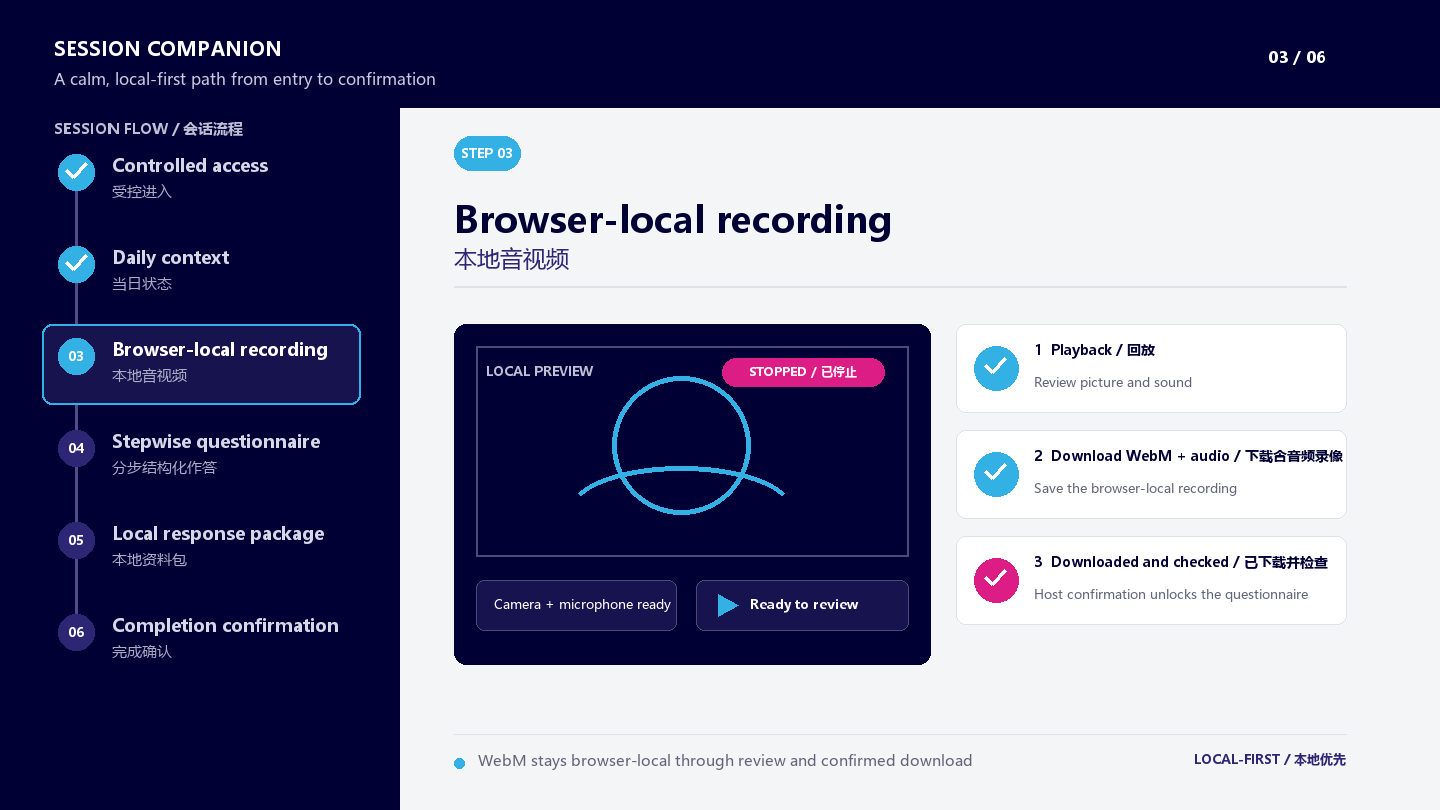
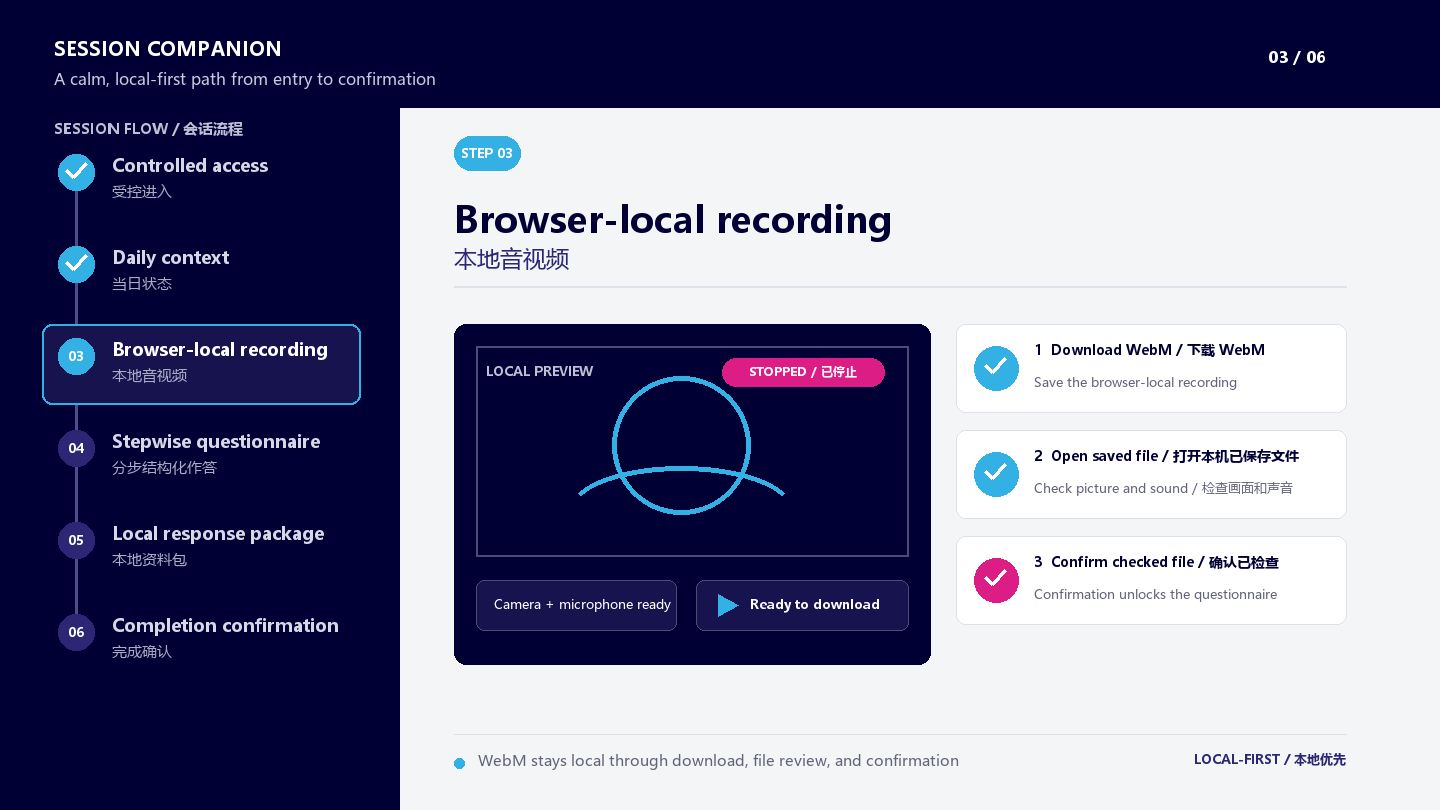
docs: align recorder verification handoff

diff --git a/tests/test_operational_readme.py b/tests/test_operational_readme.py
@@ -48,6 +48,12 @@ REFERENCE_WINDOWS_FONTS = (
     Path("C:/Windows/Fonts/msyh.ttc"),
     Path("C:/Windows/Fonts/msyhbd.ttc"),
 )
+RECORDING_HANDOFF_COPY = (
+    "下载 WebM",
+    "打开本机已保存文件",
+    "检查画面和声音",
+    "确认",
+)
 QUESTIONNAIRE_COPY = (
     "CURRENT PROMPT",
     "过去 24 小时，是否出现过不想死但想故意伤害自己的想法？",
@@ -214,6 +220,19 @@ def _assert_rendered_copy_in_order(
         previous_index = matching_index
 
 
+def _assert_copy_in_order(value: str, expected: tuple[str, ...]) -> None:
+    normalized_value = _normalize_whitespace(value)
+    previous_index = -1
+    for expected_value in expected:
+        normalized_expected = _normalize_whitespace(expected_value)
+        matching_index = normalized_value.find(normalized_expected, previous_index + 1)
+        assert matching_index > previous_index, (
+            f"expected copy {normalized_expected!r} after index {previous_index}; "
+            f"value={normalized_value!r}"
+        )
+        previous_index = matching_index
+
+
 def _showcase_asset_root() -> Path | None:
     candidates = (
         ROOT.parent / "physical-stimulation-session-recorder-showcase" / "assets",
@@ -373,6 +392,32 @@ def test_generator_renders_surface_copy_in_order(
     renderer(recording_draw)
 
     _assert_rendered_copy_in_order(recording_draw.rendered, expected_copy)
+
+
+def test_recording_surface_downloads_before_local_file_review_and_confirmation() -> None:
+    generator = _load_generator()
+    renderer = getattr(generator, "_draw_recording", None)
+    assert callable(renderer), "expected callable renderer '_draw_recording'"
+    recording_draw = _RecordingDraw()
+
+    renderer(recording_draw)
+
+    _assert_rendered_copy_in_order(
+        recording_draw.rendered,
+        RECORDING_HANDOFF_COPY,
+    )
+
+
+def test_chrome_guide_downloads_before_local_file_review_and_confirmation() -> None:
+    chrome_guide = _readme().split(
+        "<summary>Chrome 操作与故障排查 / Chrome guide and troubleshooting</summary>",
+        1,
+    )[1].split("</details>", 1)[0]
+    recording_step = next(
+        line for line in chrome_guide.splitlines() if line.startswith("2. ")
+    )
+
+    _assert_copy_in_order(recording_step, RECORDING_HANDOFF_COPY)
 
 
 def test_generator_draws_structured_response_closure(

diff --git a/tools/generate_operational_readme_assets.py b/tools/generate_operational_readme_assets.py
@@ -279,7 +279,7 @@ def _draw_recording(draw: ImageDraw.ImageDraw) -> None:
     draw.text((494, 595), "Camera + microphone ready", font=font(13), fill=COLORS["paper"])
     rounded_box(draw, (696, 580, 908, 630), fill="#17134F", outline="#4D4A78", radius=8)
     draw.polygon(((718, 594), (718, 616), (738, 605)), fill=COLORS["cyan"])
-    draw.text((750, 595), "Ready to review", font=font(13, True), fill=COLORS["paper"])
+    draw.text((750, 595), "Ready to download", font=font(13, True), fill=COLORS["paper"])
 
     _handoff_row(
         draw,
@@ -287,8 +287,8 @@ def _draw_recording(draw: ImageDraw.ImageDraw) -> None:
         324,
         390,
         "1",
-        "Playback / 回放",
-        "Review picture and sound",
+        "Download WebM / 下载 WebM",
+        "Save the browser-local recording",
         COLORS["cyan"],
     )
     _handoff_row(
@@ -297,8 +297,8 @@ def _draw_recording(draw: ImageDraw.ImageDraw) -> None:
         430,
         390,
         "2",
-        "Download WebM + audio / 下载含音频录像",
-        "Save the browser-local recording",
+        "Open saved file / 打开本机已保存文件",
+        "Check picture and sound / 检查画面和声音",
         COLORS["cyan"],
     )
     _handoff_row(
@@ -307,11 +307,11 @@ def _draw_recording(draw: ImageDraw.ImageDraw) -> None:
         536,
         390,
         "3",
-        "Downloaded and checked / 已下载并检查",
-        "Host confirmation unlocks the questionnaire",
+        "Confirm checked file / 确认已检查",
+        "Confirmation unlocks the questionnaire",
         COLORS["rose"],
     )
-    draw_footer(draw, "WebM stays browser-local through review and confirmed download")
+    draw_footer(draw, "WebM stays local through download, file review, and confirmation")
 
 
 def _draw_questionnaire(draw: ImageDraw.ImageDraw) -> None:

diff --git a/README.md b/README.md
@@ -29,7 +29,7 @@ Physical Stimulation Intervention Session Companion
 
 ### 03 本地录制 / Browser-local recording
 
-![Chrome 本地录制、回放、下载与确认 / Chrome-local recording, playback, download, and confirmation](assets/readme/local-recording-save.webp)
+![Chrome 本地录制、下载、本机回放检查与确认 / Chrome-local recording, download, local playback check, and confirmation](assets/readme/local-recording-save.webp)
 
 当前桌面版 Chrome 在浏览器内提供摄像头预览与麦克风状态确认，视频预览保持静音。录制结束后，操作人员先下载 WebM，再在本机打开已保存文件，回放检查画面和声音，最后明确确认“我已下载并检查录像，继续填写问卷”；如果录制被跳过或不可用，则走清晰的不保存路径，并确认“我确认继续填写问卷，不保存本次录制”。
 
@@ -107,7 +107,7 @@ Audiovisual bytes remain inside Chrome until the user saves the WebM. Context an
 <summary>Chrome 操作与故障排查 / Chrome guide and troubleshooting</summary>
 
 1. 使用当前桌面版 Chrome 打开受控应用，并在浏览器询问时允许摄像头和麦克风权限。
-2. 确认当日记录后预览并录制；录制完成时停止、回放、下载并检查带声音的 WebM，跳过或不可用时明确确认不保存路径。
+2. 确认当日记录后预览并录制；录制完成时停止，下载 WebM，打开本机已保存文件，检查画面和声音并确认；跳过或不可用时明确确认不保存路径。
 3. 逐题完成当前必答项及适用分支，下载 JSON + Excel ZIP，在 Chrome 下载记录中定位并确认本地保存，最后完成会话。
 
 | 现象 / Symptom | 检查 / Check |
